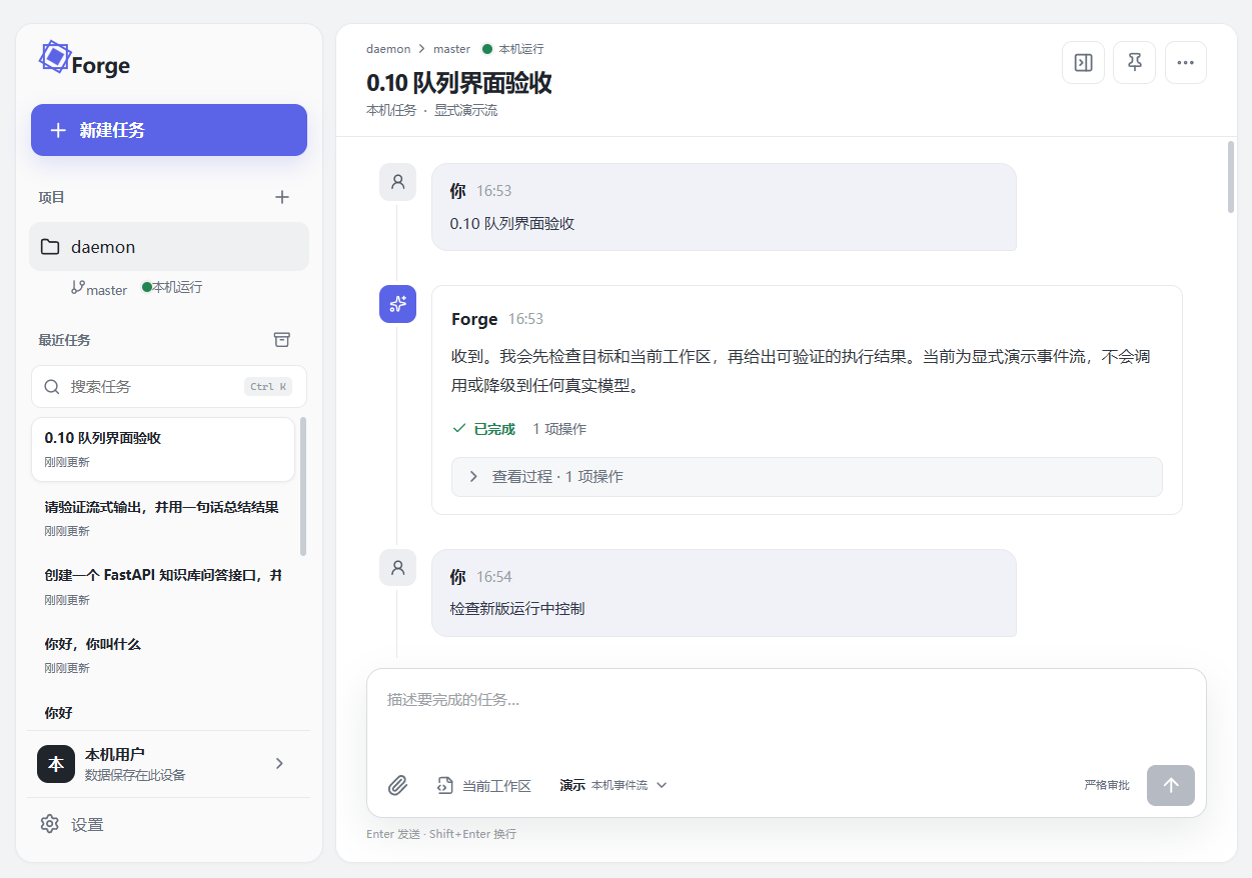
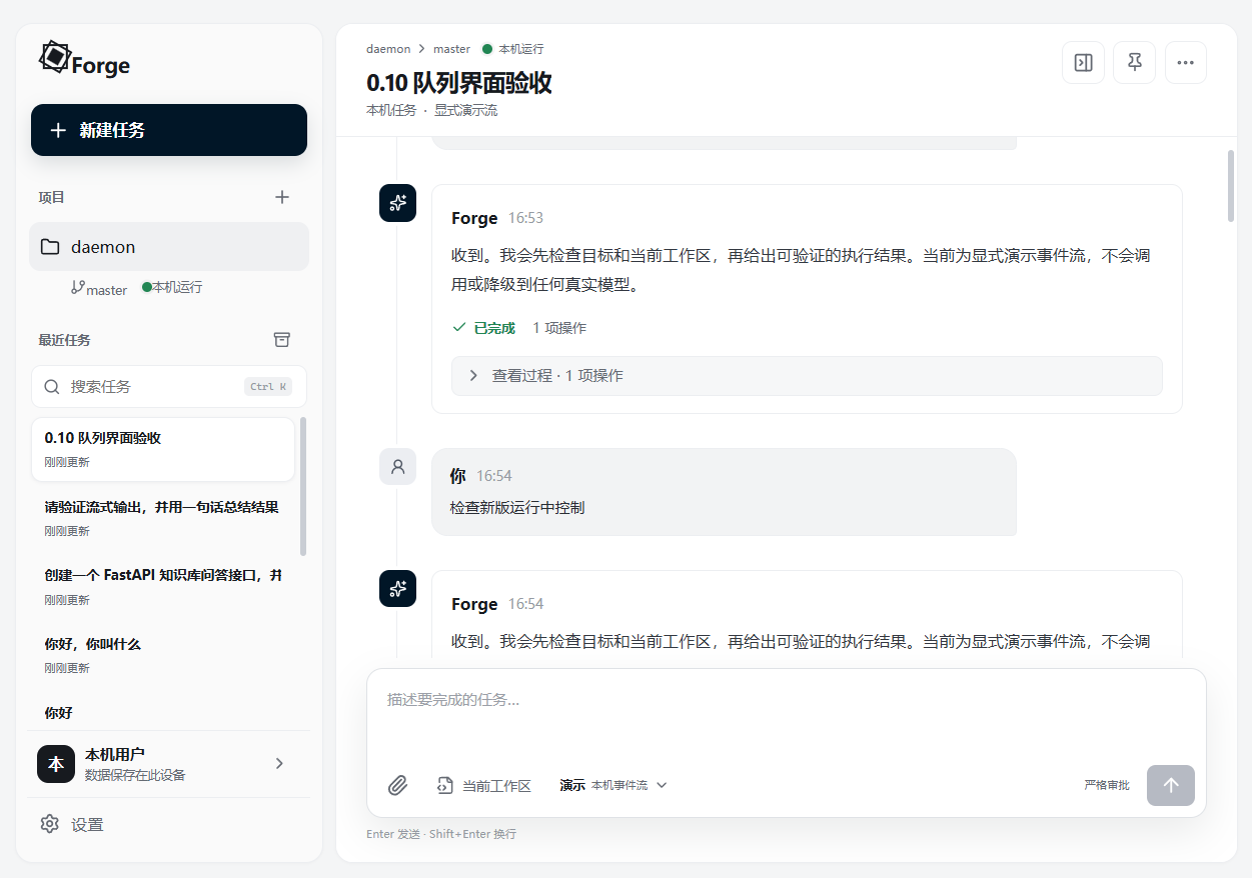
style: align Forge palette with OpenWork

diff --git a/apps/web/src/styles.css b/apps/web/src/styles.css
@@ -832,20 +832,20 @@ kbd { padding: 2px 6px; color: #aeb1b8; background: #2e3036; border: 0; border-r
 
 /* v0.21 — OpenWork-inspired calm workbench. Existing Forge capabilities remain intact. */
 :root {
-  --ink: #20242b;
-  --muted: #68707d;
-  --muted-soft: #969da7;
-  --line: #e7e9ed;
-  --line-strong: #d8dce2;
-  --canvas: #f2f3f5;
+  --ink: #171a1f;
+  --muted: #656a73;
+  --muted-soft: #969ba3;
+  --line: #eceef1;
+  --line-strong: #dfe2e6;
+  --canvas: #f4f5f6;
   --panel: #ffffff;
-  --rail: #f8f8f9;
+  --rail: #f8f9fa;
   --surface: #f6f7f8;
-  --surface-strong: #eef0f3;
-  --blue: #5b63e6;
-  --blue-hover: #4d55d2;
-  --blue-soft: #f0f1ff;
-  --shadow-menu: 0 16px 44px rgba(27, 31, 39, .14);
+  --surface-strong: #eef0f2;
+  --blue: #011627;
+  --blue-hover: #000000;
+  --blue-soft: #eef1f3;
+  --shadow-menu: 0 16px 44px rgba(1, 22, 39, .14);
 }
 
 body { background: var(--canvas); }
@@ -878,9 +878,9 @@ body { background: var(--canvas); }
   box-shadow: 0 1px 2px rgba(24, 28, 35, .03);
 }
 .sidebar-brand { height: 42px; gap: 10px; padding: 0 8px; color: var(--ink); font-size: 17px; }
-.sidebar-brand .forge-mark { color: var(--blue); }
+.sidebar-brand .forge-mark { color: var(--ink); }
 .sidebar-brand strong { font-weight: 720; letter-spacing: -.025em; }
-.sidebar .new-task { height: 42px; justify-content: flex-start; margin: 9px 2px 0; padding: 0 13px; color: #fff; background: var(--blue); border: 0; border-radius: 10px; box-shadow: 0 7px 18px rgba(91, 99, 230, .18); font-weight: 650; }
+.sidebar .new-task { height: 42px; justify-content: flex-start; margin: 9px 2px 0; padding: 0 13px; color: #fff; background: var(--blue); border: 0; border-radius: 10px; box-shadow: 0 6px 16px rgba(1, 22, 39, .13); font-weight: 650; }
 .sidebar .new-task:hover { background: var(--blue-hover); border-color: transparent; }
 .sidebar-section { margin-top: 19px; }
 .sidebar .section-title { padding: 0 8px; color: var(--muted); font-size: 10px; font-weight: 690; letter-spacing: .035em; text-transform: none; }
@@ -931,8 +931,8 @@ body { background: var(--canvas); }
 
 .activity-feed { padding: 28px 34px 36px; background: #fff; }
 .activity-row { width: min(100%, 780px); padding-bottom: 27px; }
-.user-message .activity-content { max-width: min(78%, 620px); padding: 11px 14px; color: #31374a; background: #f1f2f7; border-radius: 13px 13px 4px 13px; }
-.user-message .activity-content > p { color: #31374a; font-size: 12px; line-height: 1.65; }
+.user-message .activity-content { max-width: min(78%, 620px); padding: 11px 14px; color: #292d33; background: #f2f3f4; border-radius: 13px 13px 4px 13px; }
+.user-message .activity-content > p { color: #292d33; font-size: 12px; line-height: 1.65; }
 .forge-turn { grid-template-columns: 30px minmax(0, 1fr); gap: 12px; }
 .activity-icon { width: 30px; height: 30px; }
 .turn-content { max-width: 760px; }
@@ -943,7 +943,7 @@ body { background: var(--canvas); }
 
 .composer-wrap { padding: 8px 24px 17px; background: linear-gradient(to bottom, rgba(255,255,255,0), #fff 15px); }
 .composer { max-width: 820px; background: #fff; border-color: var(--line-strong); border-radius: 13px; box-shadow: 0 12px 32px rgba(26, 30, 37, .09); }
-.composer:focus-within { border-color: #a9aeea; box-shadow: 0 0 0 3px rgba(91, 99, 230, .08), 0 12px 32px rgba(26, 30, 37, .09); }
+.composer:focus-within { border-color: #9ca3aa; box-shadow: 0 0 0 3px rgba(1, 22, 39, .06), 0 12px 32px rgba(26, 30, 37, .09); }
 .composer textarea { min-height: 70px; padding: 15px 16px 6px; font-size: 12px; }
 .composer-actions { min-height: 43px; height: auto; gap: 6px; padding: 3px 9px 9px; }
 .composer-icon, .context-chip, .composer-model, .approval-mode { color: var(--muted); background: transparent; border: 0; border-radius: 7px; }
@@ -980,7 +980,7 @@ body { background: var(--canvas); }
 .settings-screen { width: 100%; height: 100%; display: grid; grid-template-columns: 230px 220px minmax(0, 1fr); overflow: hidden; background: #fff; }
 .settings-brand-rail { min-width: 0; display: flex; flex-direction: column; gap: 5px; padding: 20px 13px 14px; background: #f7f7f8; border-right: 1px solid var(--line); }
 .settings-brand { height: 38px; display: flex; align-items: center; gap: 10px; padding: 0 9px; margin-bottom: 18px; font-size: 17px; }
-.settings-forge-mark { width: 21px; height: 21px; display: inline-block; border: 2px solid var(--blue); border-radius: 4px; transform: rotate(45deg); box-shadow: inset 0 0 0 4px #f7f7f8, inset 0 0 0 6px var(--blue); }
+.settings-forge-mark { width: 21px; height: 21px; display: inline-block; border: 2px solid var(--ink); border-radius: 4px; transform: rotate(45deg); box-shadow: inset 0 0 0 4px #f7f7f8, inset 0 0 0 6px var(--ink); }
 .settings-brand-rail > button { min-height: 39px; display: flex; align-items: center; gap: 9px; padding: 8px 10px; color: var(--muted); background: transparent; border: 0; border-radius: 8px; cursor: pointer; text-align: left; }
 .settings-brand-rail > button:hover { color: var(--ink); background: #eceef1; }
 .settings-brand-rail > button span { min-width: 0; display: grid; gap: 2px; }
@@ -1037,7 +1037,7 @@ body { background: var(--canvas); }
 .permission-note small { color: #4e765f; font-size: 9px; line-height: 1.55; }
 .appearance-options { display: grid; grid-template-columns: repeat(2, minmax(0, 260px)); gap: 12px; margin-bottom: 16px; }
 .appearance-options > button { display: grid; gap: 7px; padding: 12px; color: var(--muted); background: #fff; border: 1px solid var(--line); border-radius: 11px; cursor: pointer; text-align: left; }
-.appearance-options > button:hover, .appearance-options > button.selected { border-color: #aeb3ed; box-shadow: 0 0 0 2px rgba(91,99,230,.08); }
+.appearance-options > button:hover, .appearance-options > button.selected { border-color: #9ba1a9; box-shadow: 0 0 0 2px rgba(1,22,39,.06); }
 .appearance-options strong { color: var(--ink); font-size: 11px; }
 .appearance-options small { font-size: 9px; }
 .density-preview { height: 78px; display: flex; flex-direction: column; gap: 8px; padding: 12px; background: #f5f6f7; border-radius: 8px; }

diff --git a/apps/cloud-api/src/email-delivery.ts b/apps/cloud-api/src/email-delivery.ts
@@ -28,7 +28,7 @@ export class ResendEmailDelivery implements EmailDelivery {
         authorization: `Bearer ${this.options.apiKey}`,
         "content-type": "application/json",
         "idempotency-key": randomUUID(),
-        "user-agent": "Forge-Cloud/0.21.0",
+        "user-agent": "Forge-Cloud/0.21.1",
       },
       body: JSON.stringify({ from: this.options.from, to: [to], subject, text }),
       signal: AbortSignal.timeout(12_000),

diff --git a/apps/cloud-api/src/server.ts b/apps/cloud-api/src/server.ts
@@ -29,7 +29,7 @@ const app = await createCloudApi({
   requireOriginForUnsafeRequests: config.production,
   logger: config.production ? {
     level: config.logLevel,
-    base: { service: "forge-cloud-api", version: "0.21.0" },
+    base: { service: "forge-cloud-api", version: "0.21.1" },
     redact: { paths: ["req.headers.cookie", "req.headers.authorization", "res.headers['set-cookie']"], censor: "[REDACTED]" },
   } : false,
 });

diff --git a/docs/design/v0.21-fidelity-ledger.md b/docs/design/v0.21-fidelity-ledger.md
@@ -1,4 +1,4 @@
-# Forge v0.21 fidelity ledger
+# Forge v0.21.1 fidelity ledger
 
 Reference direction: OpenWork-inspired light desktop workspace, interpreted for Forge's existing task, Diff, Git, terminal, Skill, MCP, provider, tenant, and backup capabilities.
 
@@ -6,8 +6,9 @@ Reference direction: OpenWork-inspired light desktop workspace, interpreted for 
 
 - Composition: matched the three-part desktop shell with a persistent project/task rail, a conversation workspace, and a dedicated inspector.
 - Hierarchy: matched a quiet workspace breadcrumb, prominent task title, readable turn blocks, and an anchored composer.
-- Primary actions: matched the blue new-task action and blue product accent while keeping approval and model choices inside the composer.
+- Primary actions: matched OpenWork's deep navy-black `#011627` action treatment while keeping approval and model choices inside the composer.
 - Inspector: preserved Forge's real Changes, Git, and PowerShell views in the right rail instead of adding placeholder panels.
+- Palette: replaced the previous blue-purple product wash with white, slate-gray, and near-black surfaces; green, amber, and red remain reserved for semantic states.
 - Density: kept the reference's restrained borders, pale neutral surfaces, rounded panels, and large uninterrupted reading area.
 
 ## Settings
@@ -15,6 +16,7 @@ Reference direction: OpenWork-inspired light desktop workspace, interpreted for 
 - Composition: matched the reference's application rail, grouped settings navigation, and wide configuration canvas.
 - Grouping: separated workbench behavior, capabilities, and system/cloud controls so existing Forge settings remain discoverable.
 - Controls: default provider, approval policy, inspector behavior, density, and reduced motion are real persisted settings.
+- Color hierarchy: settings selection, switches, icon wells, focus rings, and primary actions now use the same neutral OpenWork color system without residual purple accents.
 - Capability fidelity: provider keys, marketplace, Skills, MCP, runtime, cloud sync, and encrypted backup reuse their existing live flows.
 - Truthfulness: cloud-only sections appear only for authenticated cloud sessions; no Automations, Apps, or update controls are shown before those features exist.
 

diff --git a/docs/cloud-deployment.md b/docs/cloud-deployment.md
@@ -46,8 +46,8 @@ pnpm cloud:preflight
 通过后构建和启动：
 
 ```powershell
-docker build -f apps/cloud-api/Dockerfile -t forge-cloud:0.21.0 .
-docker run --rm -p 4790:4790 --env-file .env.production forge-cloud:0.21.0
+docker build -f apps/cloud-api/Dockerfile -t forge-cloud:0.21.1 .
+docker run --rm -p 4790:4790 --env-file .env.production forge-cloud:0.21.1
 ```
 
 容器以非 root 用户运行，`/v1/live` 只检查进程存活，`/v1/health` 检查 Cloud API 和数据库就绪状态；每个响应都包含 `x-request-id`。生产日志会隐藏 Cookie、Authorization 和 Set-Cookie。启动时迁移进程会取得 MySQL 命名锁，并只执行尚未登记的迁移，避免多实例重复迁移。MySQL 没有原生 Row-Level Security，因此运行账号不得拥有 DDL 权限，Cloud API 的所有租户资源操作必须同时通过活动成员校验和显式 `tenant_id` 条件。

diff --git a/README.md b/README.md
@@ -62,7 +62,7 @@ Forge 是一款 Windows 本机 AI 编程工作台。当前版本采用 React + E
 安装包位于：
 
 ```text
-release/Forge-Setup-0.21.0.exe
+release/Forge-Setup-0.21.1.exe
 ```
 
 1. 运行安装程序并启动 Forge。
